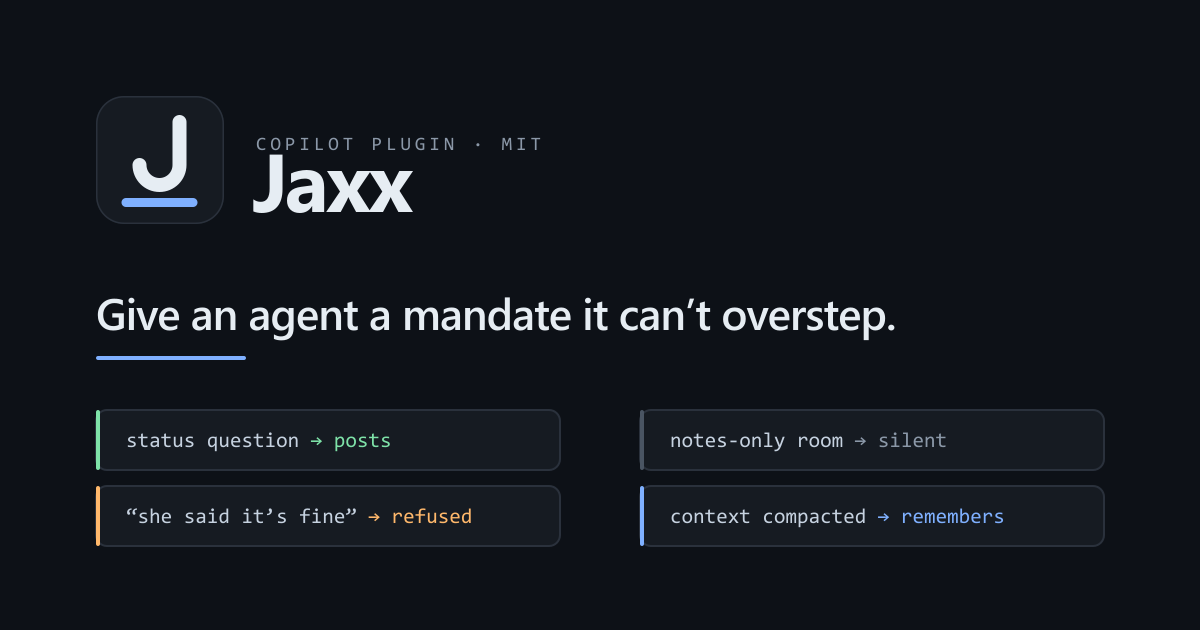
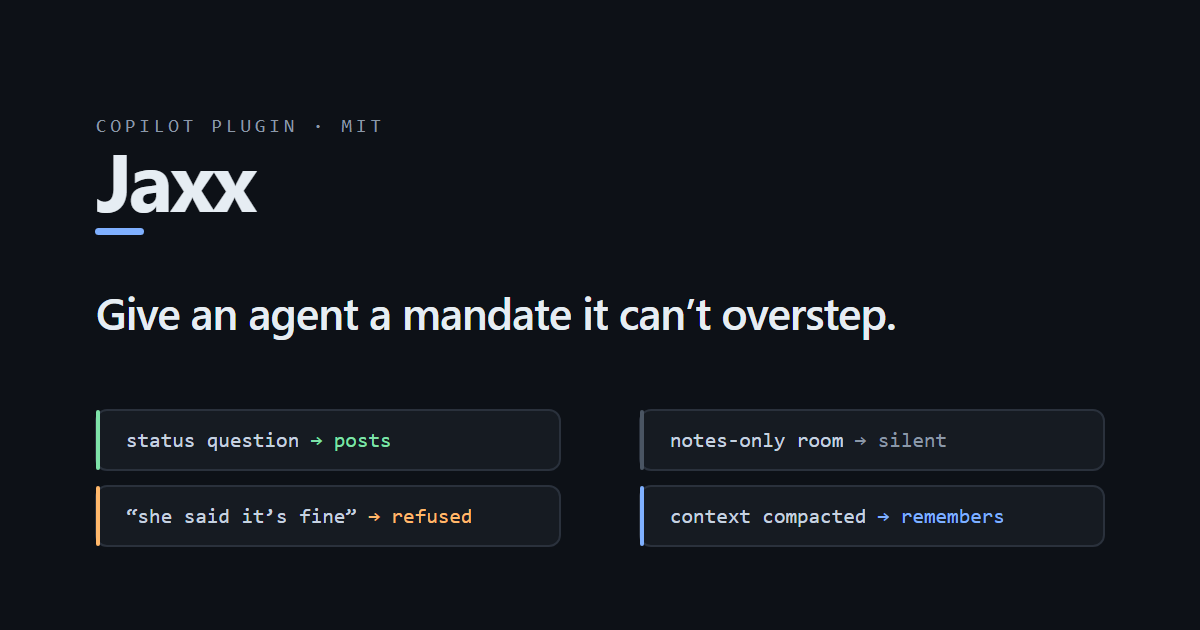
docs: make the mark the wordmark, and give the page depth (#9)
The nav set a drawn letter J beside 'Jaxx' in a different typeface - the
same letter twice, in two styles. Resolved by collapsing the two into one
object: the wordmark is the mark, and the accent rail sits under the J
and nowhere else. The tile logo is now literally that J, cropped, so the
favicon and the logotype are the same drawing rather than two competing
ones. Applied to the nav, the footer, the README banner, the social card
and the wordmark asset.

Alongside that, a depth pass on the page:

- Inter is requested on its variable axis, so the 550 and 650 weights
  the stylesheet already asked for actually render.
- Every raised surface gets a hairline top highlight, so light reads as
  falling from above instead of every panel being a flat cutout.
- Section dividers fade at both edges rather than hitting the viewport
  wall, which is what made them read as wireframe rules.
- The hero grid aligns to the top, so the headline and the chat panel
  start on the same line instead of floating against each other.
- A near-invisible background grid, masked to the upper page, so large
  dark areas have texture on a big display.
- Section content reveals on scroll, staggered across siblings, and is
  skipped entirely under prefers-reduced-motion. The class is applied
  from script, so with JavaScript off nothing is ever hidden.

diff --git a/docs/index.html b/docs/index.html
@@ -22,7 +22,7 @@
 <link rel="apple-touch-icon" href="logo.png">
 <link rel="preconnect" href="https://fonts.googleapis.com">
 <link rel="preconnect" href="https://fonts.gstatic.com" crossorigin>
-<link href="https://fonts.googleapis.com/css2?family=Inter:wght@400;500;600;700&family=JetBrains+Mono:wght@400;500&display=swap" rel="stylesheet">
+<link href="https://fonts.googleapis.com/css2?family=Inter:wght@400..700&family=JetBrains+Mono:wght@400;500&display=swap" rel="stylesheet">
 <style>
   :root {
     --bg: #0a0c10;
@@ -39,6 +39,9 @@
     --sans: "Inter", -apple-system, BlinkMacSystemFont, "Segoe UI", Helvetica, Arial, sans-serif;
     --mono: "JetBrains Mono", ui-monospace, SFMono-Regular, Menlo, Consolas, monospace;
     --wrap: 1140px;
+    /* light appears to fall from above: a hairline highlight on every raised edge */
+    --lift: inset 0 1px 0 rgba(255,255,255,0.055);
+    --shadow-sm: 0 1px 2px rgba(0,0,0,0.4), 0 8px 24px -12px rgba(0,0,0,0.6);
   }
 
   * { box-sizing: border-box; }
@@ -55,6 +58,18 @@
     -webkit-font-smoothing: antialiased;
     text-rendering: optimizeLegibility;
   }
+  /* A large flat dark field reads as cheap on a big display. This is a
+     near-invisible grid that only shows up as texture, never as lines. */
+  body::before {
+    content: ""; position: fixed; inset: 0; z-index: 0; pointer-events: none;
+    background-image:
+      linear-gradient(rgba(255,255,255,0.017) 1px, transparent 1px),
+      linear-gradient(90deg, rgba(255,255,255,0.017) 1px, transparent 1px);
+    background-size: 64px 64px;
+    mask-image: radial-gradient(120% 80% at 50% 0%, #000 0%, transparent 72%);
+    -webkit-mask-image: radial-gradient(120% 80% at 50% 0%, #000 0%, transparent 72%);
+  }
+  body > * { position: relative; z-index: 1; }
 
   a { color: inherit; }
 
@@ -74,15 +89,19 @@
     display: flex; align-items: center; gap: 32px;
   }
   .brand {
-    display: flex; align-items: center; gap: 11px;
-    font-weight: 700; letter-spacing: -0.02em; font-size: 17px;
-    text-decoration: none;
+    display: inline-flex; align-items: center;
+    font-weight: 700; letter-spacing: -0.022em; font-size: 17.5px;
+    text-decoration: none; color: var(--text);
   }
-  .mark {
-    width: 20px; height: 24px; display: block;
-    color: var(--accent); flex: none;
+  /* The mark is the wordmark. The rail sits under the J and nowhere else:
+     one letter, doing both jobs. The favicon is this J, cropped. */
+  .brand .j { position: relative; display: inline-block; }
+  .brand .j::after {
+    content: ""; position: absolute;
+    left: -0.06em; right: -0.02em; bottom: -0.30em; height: 0.115em;
+    min-height: 2px; border-radius: 999px;
+    background: var(--accent);
   }
-  .mark .rail { fill: currentColor; }
   .navlinks { display: flex; gap: 26px; margin-left: auto; align-items: center; }
   .navlinks a {
     font-size: 14px; color: var(--dim); text-decoration: none;
@@ -99,9 +118,15 @@
     border: 1px solid transparent;
     transition: background .15s ease, border-color .15s ease, transform .15s ease;
   }
-  .btn.primary { background: var(--accent); color: #06162f; }
-  .btn.primary:hover { background: #8bbcff; }
-  .btn.ghost { border-color: var(--line-strong); color: var(--text); }
+  .btn.primary {
+    background: var(--accent); color: #06162f;
+    box-shadow: 0 1px 0 rgba(255,255,255,0.28) inset, 0 8px 24px -8px rgba(110,168,255,0.55);
+  }
+  .btn.primary:hover {
+    background: #8bbcff;
+    box-shadow: 0 1px 0 rgba(255,255,255,0.34) inset, 0 10px 30px -8px rgba(110,168,255,0.7);
+  }
+  .btn.ghost { border-color: var(--line-strong); color: var(--text); box-shadow: var(--lift); }
   .btn.ghost:hover { background: var(--surface-2); border-color: rgba(255,255,255,0.28); }
   .btn.sm { padding: 7px 14px; font-size: 13.5px; }
 
@@ -110,7 +135,6 @@
   .hero {
     position: relative;
     padding: 104px 0 92px;
-    border-bottom: 1px solid var(--line);
     overflow: hidden;
   }
   .hero::before {
@@ -123,8 +147,9 @@
   .hero .wrap {
     position: relative;
     display: grid; grid-template-columns: minmax(0,1.05fr) minmax(0,0.95fr);
-    gap: 64px; align-items: center;
+    gap: 64px; align-items: start;
   }
+  .hero .wrap > div:first-child { padding-top: 4px; }
 
   .pill {
     display: inline-flex; align-items: center; gap: 8px;
@@ -158,7 +183,7 @@
     background: linear-gradient(180deg, var(--surface-2), var(--surface));
     border: 1px solid var(--line);
     border-radius: 14px;
-    box-shadow: 0 24px 60px -20px rgba(0,0,0,0.8);
+    box-shadow: var(--lift), 0 24px 60px -20px rgba(0,0,0,0.8);
     overflow: hidden;
   }
   .panel-top {
@@ -204,7 +229,14 @@
 
   /* ---------- sections ---------- */
 
-  section { padding: 88px 0; border-bottom: 1px solid var(--line); }
+  section { padding: 88px 0; position: relative; }
+  /* Dividers fade out at the edges instead of hitting the viewport wall.
+     A full-bleed hairline reads as a wireframe; this reads as a seam. */
+  .hero::after, section::after {
+    content: ""; position: absolute; left: 0; right: 0; bottom: 0; height: 1px;
+    background: linear-gradient(90deg, transparent, var(--line-strong) 20%, var(--line-strong) 80%, transparent);
+    pointer-events: none;
+  }
   .label {
     font-family: var(--mono); font-size: 11.5px; letter-spacing: 0.14em;
     text-transform: uppercase; color: var(--accent); margin-bottom: 14px;
@@ -245,9 +277,13 @@
     border: 1px solid var(--line);
     border-radius: 12px;
     padding: 22px 22px 24px;
-    transition: border-color .18s ease, transform .18s ease;
+    box-shadow: var(--lift), var(--shadow-sm);
+    transition: border-color .18s ease, transform .18s ease, box-shadow .18s ease;
   }
-  .card:hover { border-color: var(--line-strong); transform: translateY(-2px); }
+  .card:hover {
+    border-color: var(--line-strong); transform: translateY(-2px);
+    box-shadow: var(--lift), 0 1px 2px rgba(0,0,0,0.4), 0 18px 40px -16px rgba(0,0,0,0.75);
+  }
   .card .n {
     font-family: var(--mono); font-size: 12px; color: var(--faint);
     border: 1px solid var(--line); border-radius: 6px;
@@ -265,6 +301,7 @@
   pre {
     margin: 0; background: var(--surface); border: 1px solid var(--line);
     border-radius: 12px; padding: 20px 22px; overflow-x: auto;
+    box-shadow: var(--lift), var(--shadow-sm);
   }
   pre code { font-family: var(--mono); font-size: 14px; line-height: 2; color: var(--text); }
   pre .c { color: var(--faint); }
@@ -300,6 +337,17 @@
   footer a:hover { color: var(--text); }
   footer .links { display: flex; gap: 24px; flex-wrap: wrap; }
 
+  /* ---------- entrance ---------- */
+
+  @media (prefers-reduced-motion: no-preference) {
+    .reveal {
+      opacity: 0; transform: translateY(14px);
+      transition: opacity .6s cubic-bezier(.22,.61,.36,1), transform .6s cubic-bezier(.22,.61,.36,1);
+      will-change: opacity, transform;
+    }
+    .reveal.in { opacity: 1; transform: none; }
+  }
+
   /* ---------- responsive ---------- */
 
   @media (max-width: 1000px) {
@@ -322,7 +370,7 @@
 
 <nav class="nav">
   <div class="wrap">
-    <a class="brand" href="#top"><svg class="mark" viewBox="51 38 152 184" aria-hidden="true" focusable="false"><path d="M167 52 L167 138 A40 40 0 0 1 87 138" fill="none" stroke="currentColor" stroke-width="28" stroke-linecap="round" stroke-linejoin="round"/><rect class="rail" x="51" y="204" width="152" height="18" rx="9"/></svg> Jaxx</a>
+    <a class="brand" href="#top"><span class="j">J</span>axx</a>
     <div class="navlinks">
       <a href="#cycle">How it works</a>
       <a href="#why">Why not a prompt</a>
@@ -683,7 +731,7 @@
 <footer>
   <div class="wrap cols">
     <div>
-      <a class="brand" href="#top" style="margin-bottom:10px"><svg class="mark" viewBox="51 38 152 184" aria-hidden="true" focusable="false"><path d="M167 52 L167 138 A40 40 0 0 1 87 138" fill="none" stroke="currentColor" stroke-width="28" stroke-linecap="round" stroke-linejoin="round"/><rect class="rail" x="51" y="204" width="152" height="18" rx="9"/></svg> Jaxx</a><br>
+      <a class="brand" href="#top" style="margin-bottom:10px"><span class="j">J</span>axx</a><br>
       MIT licensed &middot; a personal project, not affiliated with or endorsed by any employer.
     </div>
     <div class="links">
@@ -694,6 +742,36 @@
     </div>
   </div>
 </footer>
+
+<script>
+(function () {
+  var motionOK = window.matchMedia("(prefers-reduced-motion: no-preference)").matches;
+  if (!motionOK || !("IntersectionObserver" in window)) return;
+
+  var targets = [];
+  document.querySelectorAll("section").forEach(function (s) {
+    var w = s.querySelector(".wrap");
+    if (w) targets = targets.concat(Array.prototype.slice.call(w.children));
+  });
+  if (!targets.length) return;
+
+  targets.forEach(function (el) { el.classList.add("reveal"); });
+
+  var io = new IntersectionObserver(function (entries) {
+    entries.forEach(function (e) {
+      if (!e.isIntersecting) return;
+      var el = e.target;
+      // Stagger siblings so a row of cards resolves left to right.
+      var i = Array.prototype.indexOf.call(el.parentNode.children, el);
+      el.style.transitionDelay = Math.min(i, 5) * 60 + "ms";
+      el.classList.add("in");
+      io.unobserve(el);
+    });
+  }, { rootMargin: "0px 0px -12% 0px", threshold: 0.08 });
+
+  targets.forEach(function (el) { io.observe(el); });
+}());
+</script>
 
 </body>
 </html>
